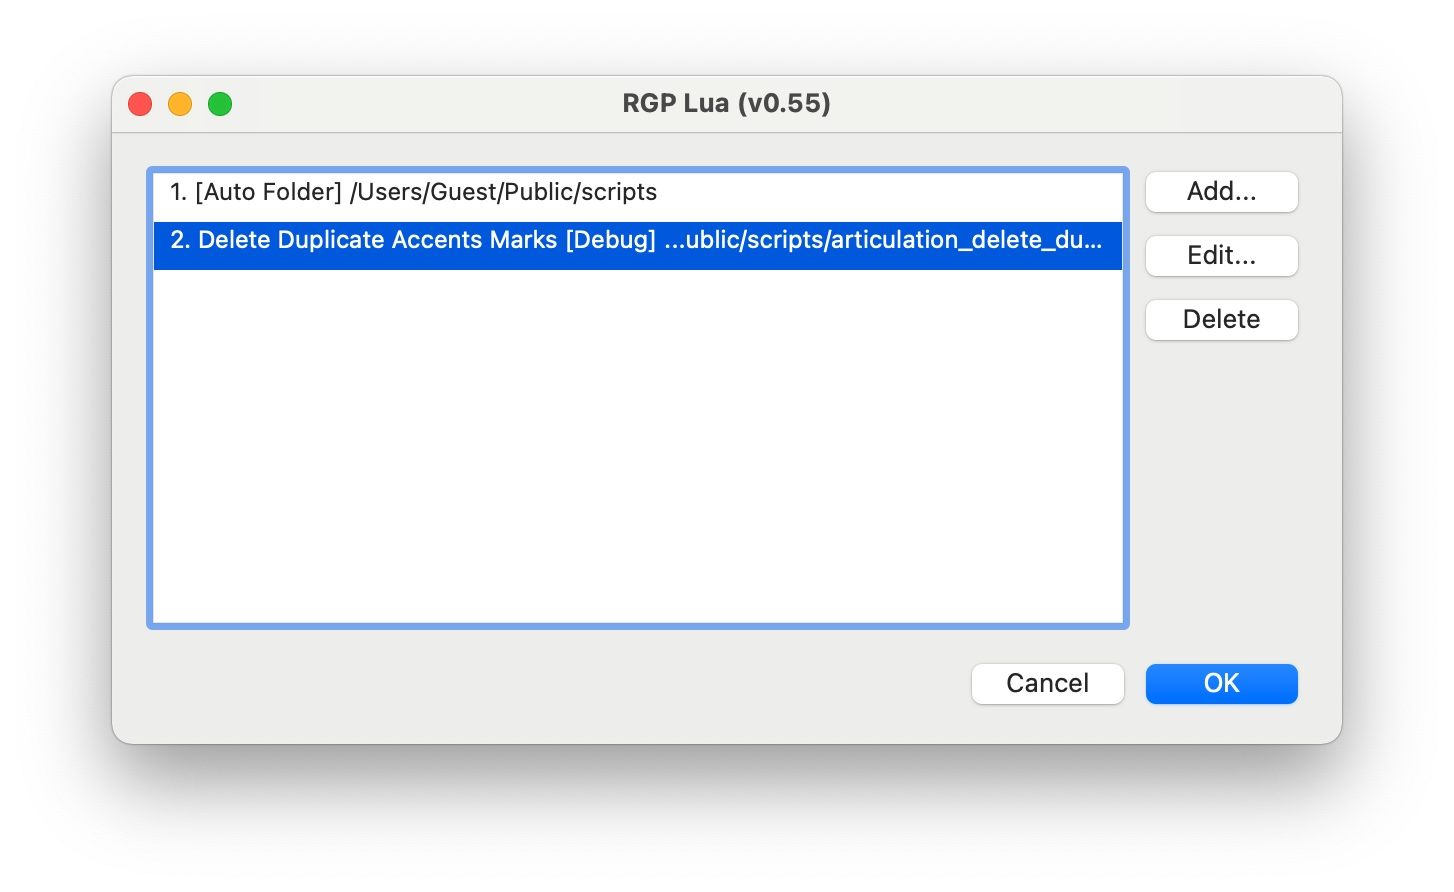
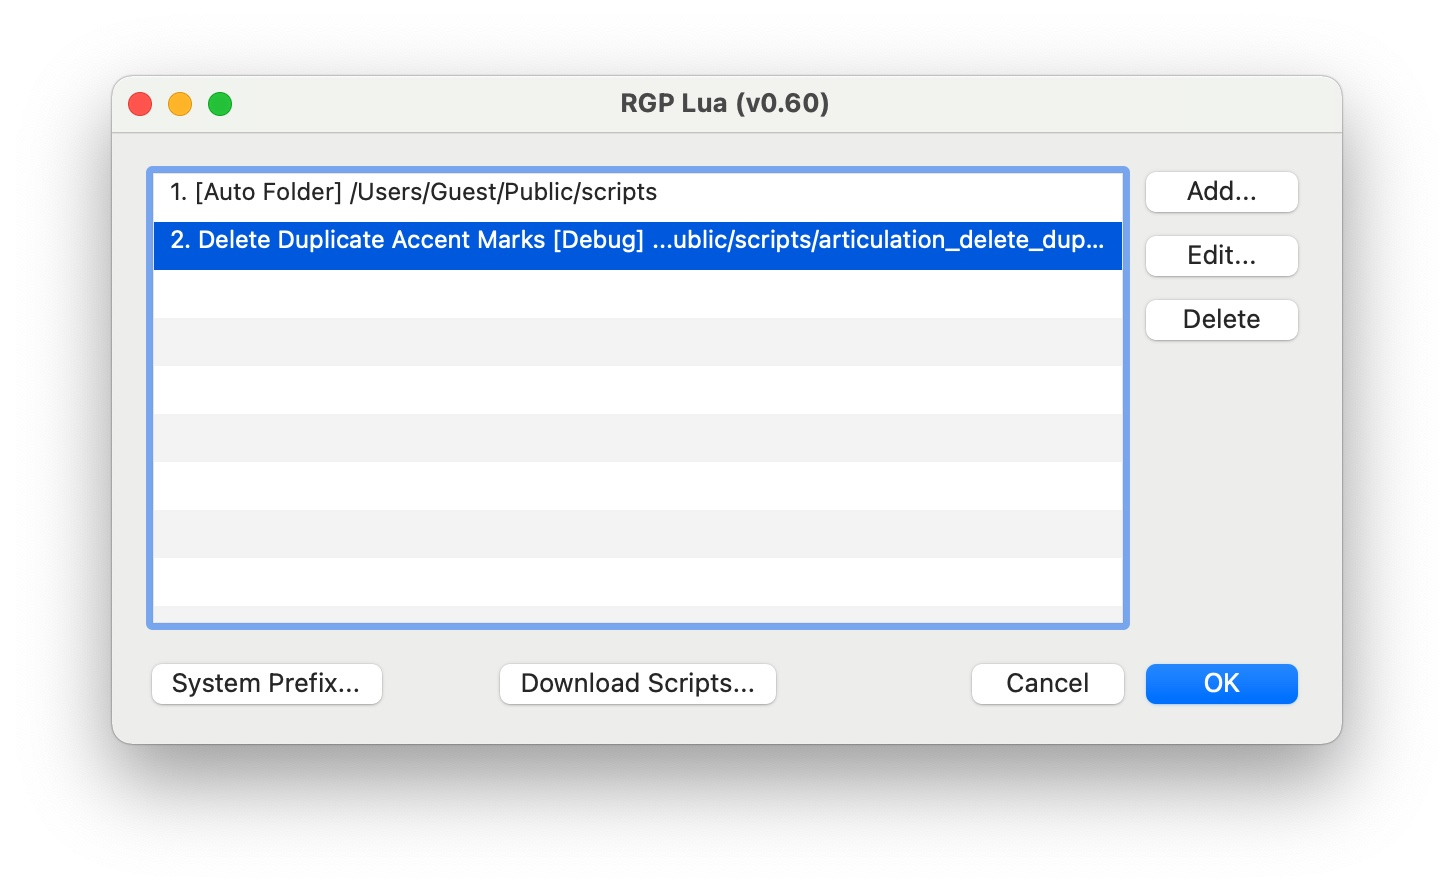
chore: autopublish 2022-02-02T17:17:54Z

diff --git a/docs/rgp-lua/rgp-lua-configuration.md b/docs/rgp-lua/rgp-lua-configuration.md
@@ -7,15 +7,29 @@ When you select “RGP Lua...” from Finale's plugin menu, the following config
 
 **List.** A list of all scripts and Auto Folders currently configured. _RGP Lua_ adds every Lua script in each Auto Folder to Finale's plugin menu except [`mobdebug.lua`](/docs/rgp-lua/development-environment), if it happens to exist.
 
-**Add.** Opens the Add/Edit Item dialog and adds an item to the list.
+**Add.** Opens the [Add/Edit Item Dialog](#AddEditDialog) and adds an item to the list.
 
-**Edit.** Opens the Add/Edit Item dialog to edit the currently selected item in the list.
+**Edit.** Opens the [Add/Edit Item Dialog](#AddEditDialog) to edit the currently selected item in the list.
 
 **Delete.** Deletes the currently selected item.
 
+**System Prefix.** Opens the [System Prefix Dialog](#SystemPrefix).
+
+**Download Scripts.** Opens the [Finale Lua](https://www.finalelua.com/) website which allows you to download scripts that can then be added to the configuration list.
+
 List items are stored in an xml file called `com.robertgpatterson.RGPPluginSettings.xml` in the user's preferences folder. This is `~/Library/Preferences` (macOS) or `C:\Users\<username>\AppData\Roaming` (Windows).
 
-**Add/Edit Dialog**
+<a id="SystemPrefix"></a>System Prefix Dialog
+---------------------------------------------
+
+![System Prefix Dialog](assets/system_prefix.jpg "System Prefix Dialog")
+
+This is a multi-line text field that allows you to enter Lua code to be executed before any script or script prefix. One common use case might be to change `package.path` to include a directory for common libraries. There is no error checking, so be certain this code compiles correctly.
+
+Note that _RGP Lua_ automatically adds the current running script path to both `package.path` and `package.cpath`. That is not necessary here.
+
+<a id="AddEditDialog"></a>Add/Edit Dialog
+----------------------------------------
 
 ![Add/Edit Item Dialog](assets/additem.jpg "Add/Edit Item Dialog")
 

diff --git a/docs/rgp-lua.md b/docs/rgp-lua.md
@@ -18,10 +18,10 @@ If you want a “Hello, world!” example that shows up as a menu option in Fina
 
 ```lua
 function plugindef()
-    return "Hello World", "Hello World", 'Displays a message box saying, "Hello, World!"'
+    return "Hello World", "Hello World", 'Displays a message box saying, "Hello, world!"'
 end
 
-finenv.UI():AlertInfo("Hello World, "")
+finenv.UI():AlertInfo("Hello, world!", "")
 ```
 
 A Quick Start
